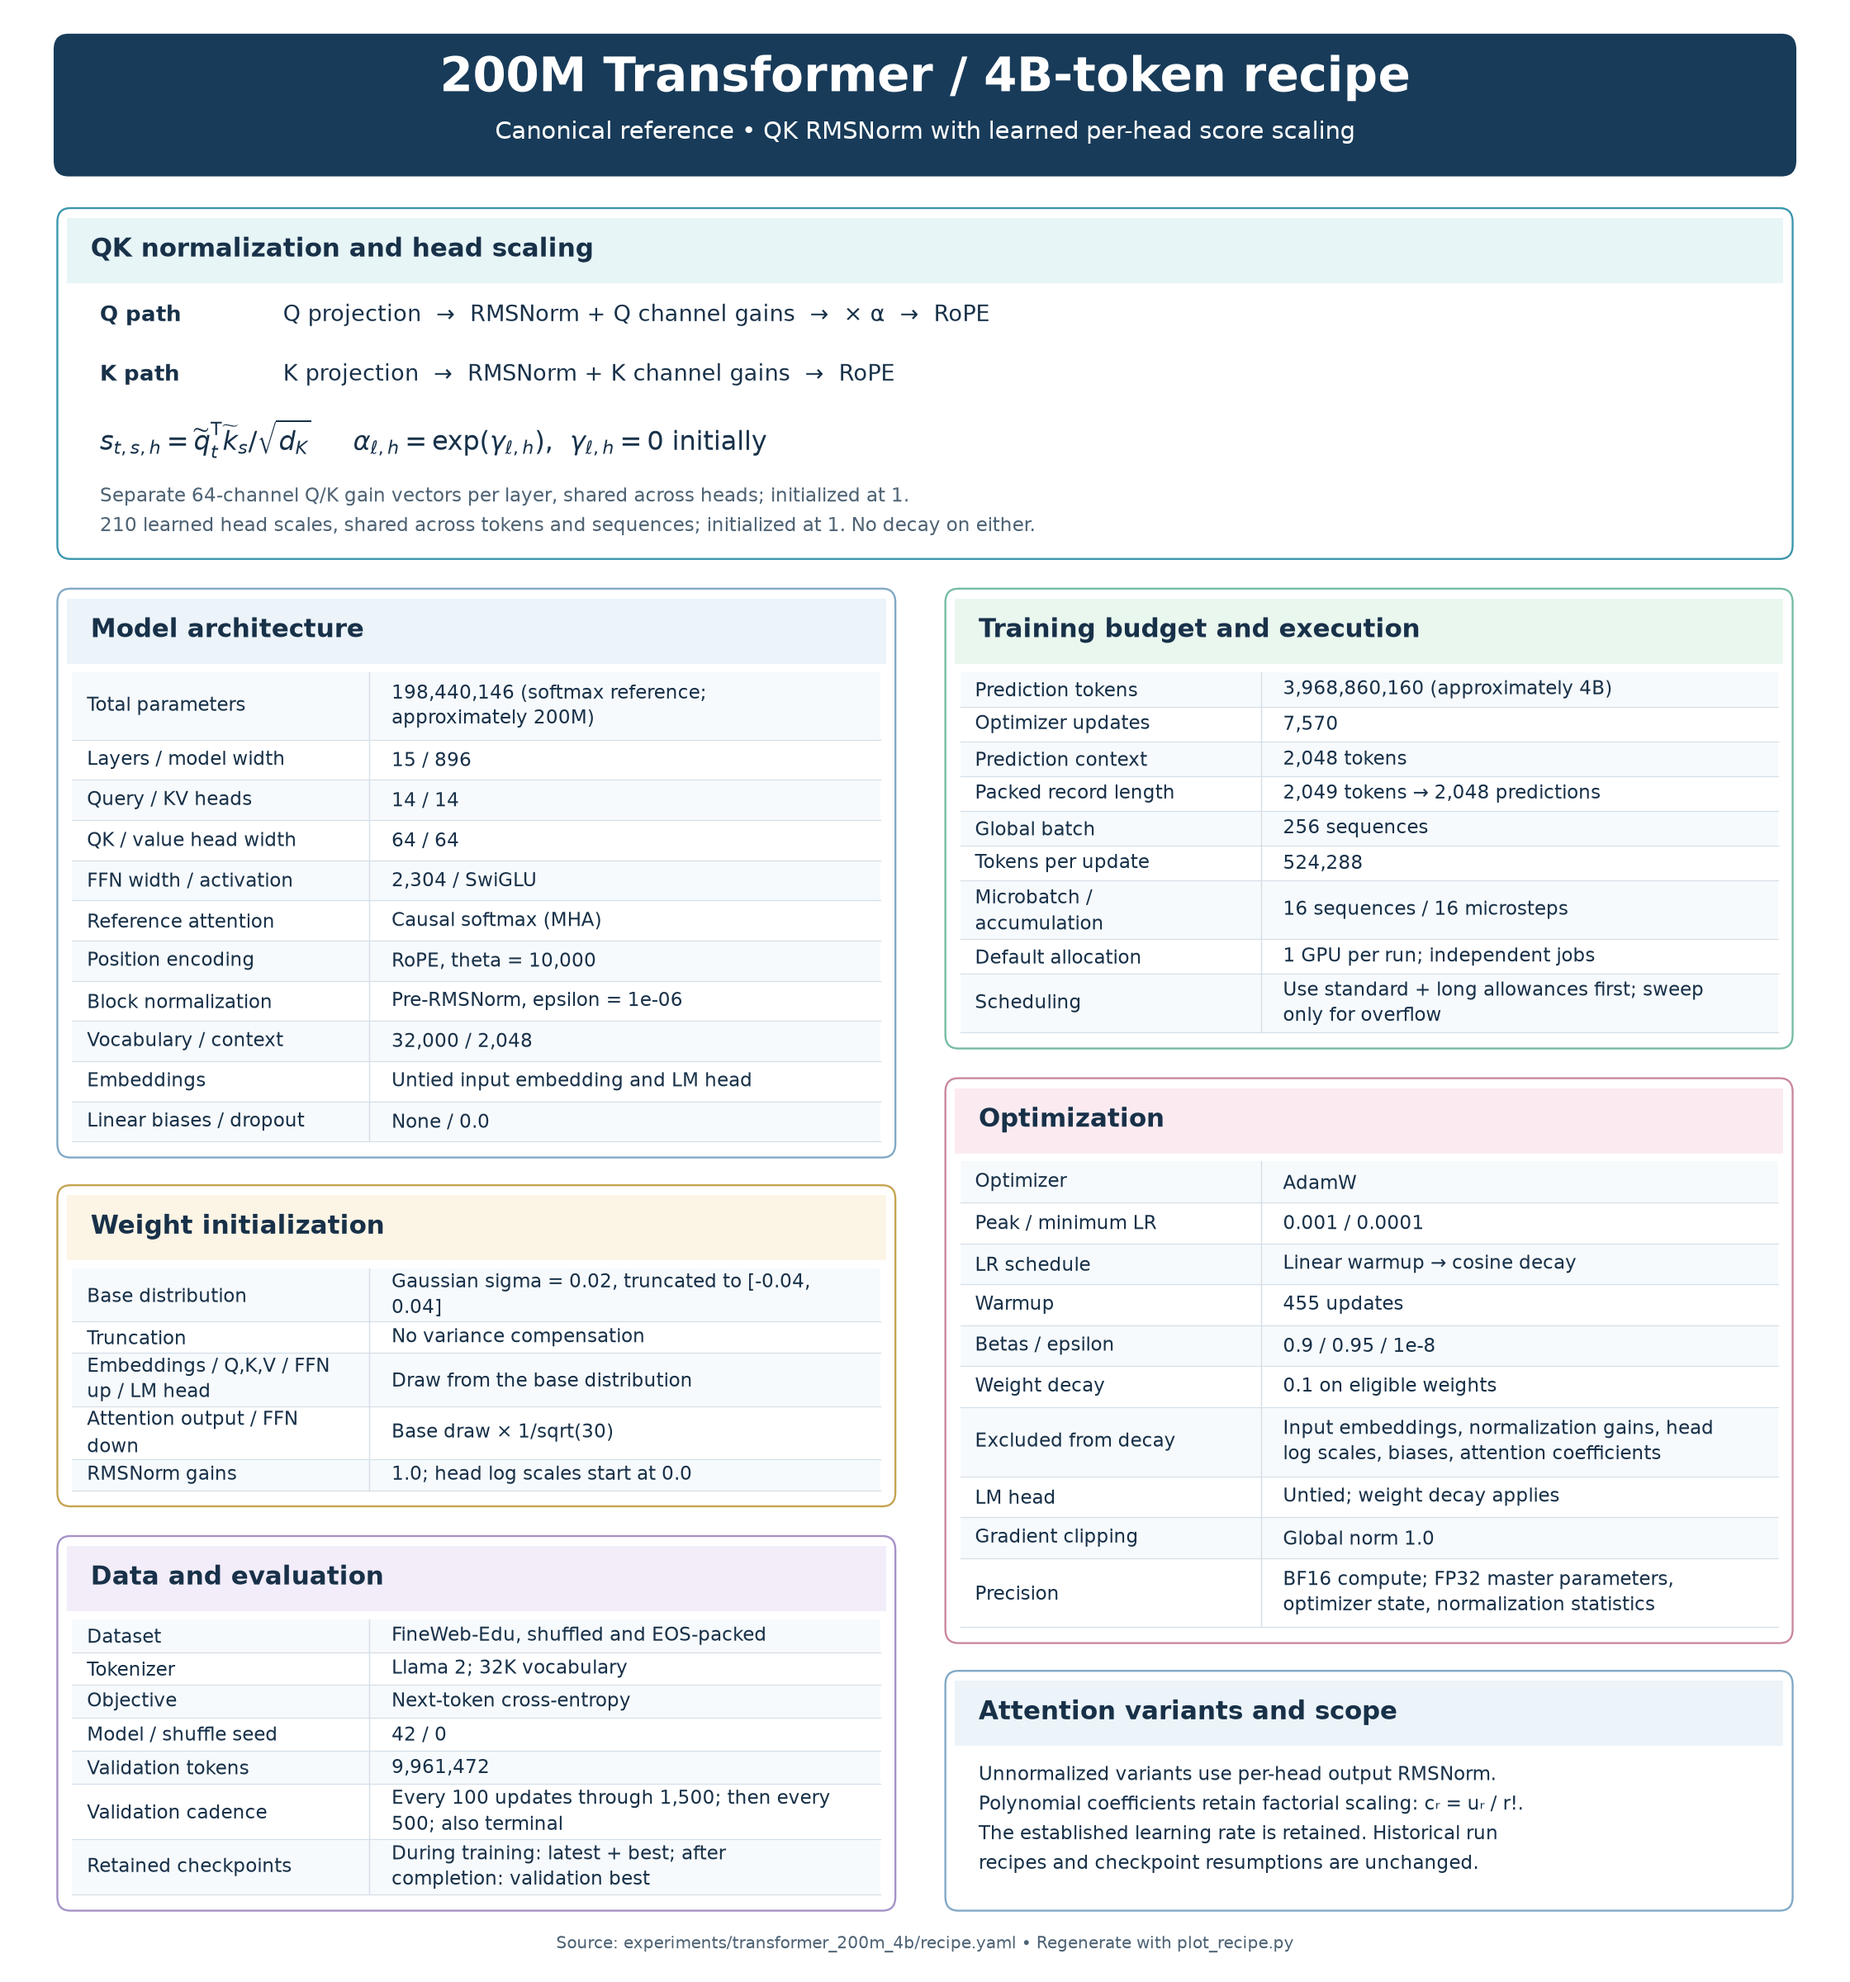
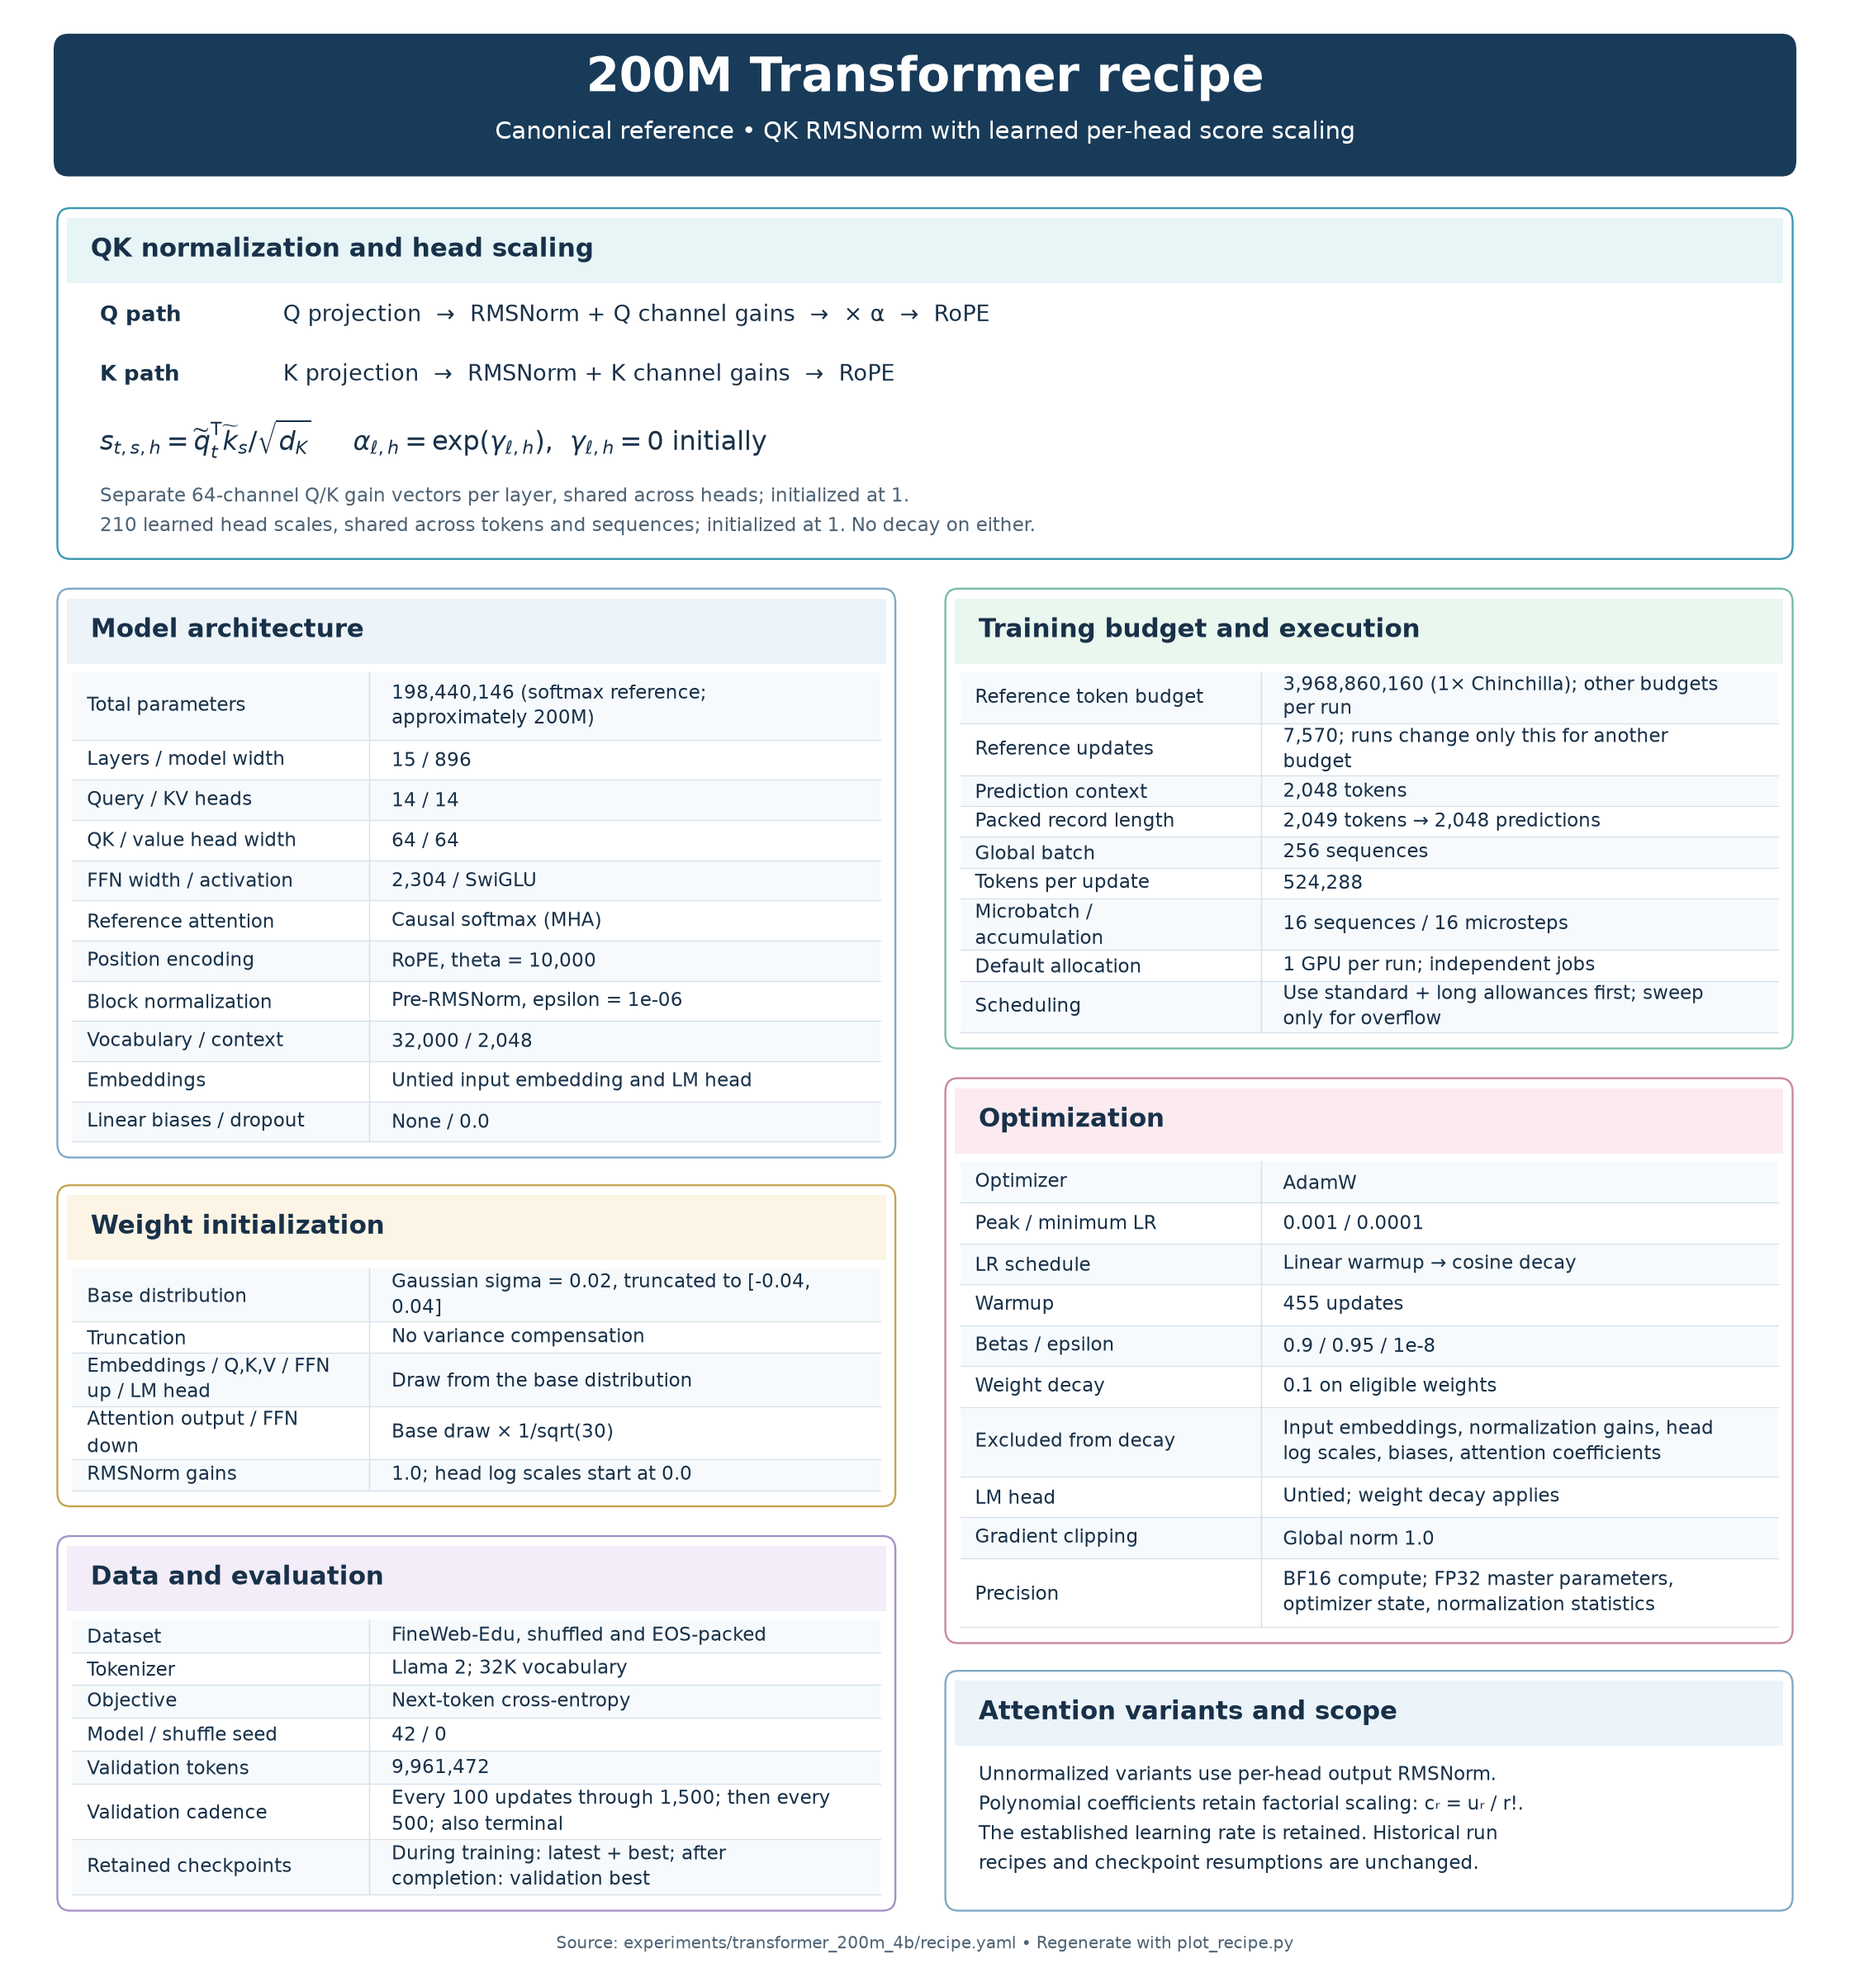
Frame the 200M study as one recipe with per-run token budgets
The study is the 200M recipe; 1x Chinchilla (7,570 updates) is the reference
budget, and runs at other budgets change only optim.total_steps. Retitle the
study README, root index, AGENTS.md entry, and recipe image accordingly, and
document the 2.5x budget (18,925 updates). The folder keeps its name.

Changed region(s): [[0.6875, 0.3438, 0.9062, 0.5312], [0.5312, 0.3438, 0.6562, 0.5312], [0.25, 0.0312, 0.7812, 0.0625]]

diff --git a/experiments/transformer_200m_4b/plot_recipe.py b/experiments/transformer_200m_4b/plot_recipe.py
@@ -95,7 +95,7 @@ def render(recipe: Path, output: Path) -> None:
 
     ax.add_patch(FancyBboxPatch((.035, .917), .93, .06, boxstyle="round,pad=0.006,rounding_size=0.008",
                                facecolor="#183b59", linewidth=0, transform=ax.transAxes))
-    text(.5, .954, "200M Transformer / 4B-token recipe", fontsize=26, weight="bold", ha="center", color="white")
+    text(.5, .954, "200M Transformer recipe", fontsize=26, weight="bold", ha="center", color="white")
     text(.5, .930, "Canonical reference • QK RMSNorm with learned per-head score scaling",
          fontsize=13.2, ha="center", color="white")
 
@@ -143,8 +143,8 @@ def render(recipe: Path, output: Path) -> None:
     ], color="#a591c7", fill="#f2edf9")
 
     table(.515, .475, .45, .224, "Training budget and execution", [
-        ("Prediction tokens", f"{total_tokens:,} (approximately 4B)"),
-        ("Optimizer updates", f"{optim['total_steps']:,}"),
+        ("Reference token budget", f"{total_tokens:,} (1× Chinchilla); other budgets per run"),
+        ("Reference updates", f"{optim['total_steps']:,}; runs change only this for another budget"),
         ("Prediction context", f"{length:,} tokens"),
         ("Packed record length", f"{packed['sequence_length']:,} tokens → {length:,} predictions"),
         ("Global batch", f"{global_batch} sequences"),

diff --git a/experiments/transformer_200m_4b/README.md b/experiments/transformer_200m_4b/README.md
@@ -1,14 +1,17 @@
-# 200M Transformer / 4B-token setup
+# 200M Transformer setup
 
-How do attention variants perform under the 200M-parameter, approximately 4B-token
-recipe? This self-contained study owns its [recipe](recipe.yaml), [run index](runs.csv),
+How do attention variants perform under the 200M-parameter recipe, and how do their
+comparisons change with the training-token budget? The budget is a per-run setting:
+the reference is 1× Chinchilla (about 4B tokens), and runs at other budgets change only
+`optim.total_steps`. The folder keeps its original `transformer_200m_4b` name.
+This self-contained study owns its [recipe](recipe.yaml), [run index](runs.csv),
 [membership](sweep.yaml), and [results](results/README.md), including exploratory
 diagnostics. Reusable model, attention, data, optimizer, and runtime code live in
 the [Transformer scaffold](../../scaffolds/transformer/README.md).
 
 ## Reference recipe
 
-![200M / 4B reference recipe with learned per-head QK score scaling](recipe.png)
+![200M reference recipe with learned per-head QK score scaling](recipe.png)
 
 The pretraining reference has 15 layers, width 896, 14 query/KV heads of width 64,
 SwiGLU width 2304, context 2048, vocabulary 32,000, untied embeddings, and RoPE
@@ -27,7 +30,7 @@ computation uses BF16.
 New pretraining runs use this setup. Historical run configurations and checkpoint
 resumptions retain their recorded normalization; changing the canonical recipe
 does not change those experiments. The architecture and optimizer below otherwise
-retain the established 4B recipe, including its previously selected learning rate.
+retain the established recipe, including its previously selected learning rate.
 
 Linear and embedding weights use a Gaussian with underlying standard deviation
 0.02, truncated to [-0.04, 0.04] without variance compensation. Attention output
@@ -37,11 +40,26 @@ excluding embeddings, normalization gains, biases, and attention coefficients.
 The untied output head decays.
 
 The reference uses shuffled, EOS-packed FineWeb-Edu data tokenized with the
-Llama-2 tokenizer, seed 42, global batch 256, and 7,570 updates
-(3,968,860,160 prediction tokens). Peak LR is 0.001, with 455 warmup updates and
-cosine decay to 0.0001. Validation uses 9,961,472 tokens every 100 updates through
+Llama-2 tokenizer, seed 42, and global batch 256. Its token budget is 1× Chinchilla:
+7,570 updates (3,968,860,160 prediction tokens). Peak LR is 0.001, with 455 warmup
+updates and cosine decay to 0.0001 over the run. Validation uses 9,961,472 tokens every 100 updates through
 1,500, then every 500 and at the final update. Individual diagnostic recipes
 specify their own fitting objective, trainable parameters, and stopping rule.
+
+### Token budgets
+
+A run at another budget copies its reference recipe and changes only
+`optim.total_steps` (and so the cosine horizon); warmup (455 updates), peak and
+floor learning rate, data order, seed, and validation cadence stay the same.
+With the same shuffle seed, a longer run first sees exactly the tokens of a
+shorter one. The 12.0B-token training set covers up to about 22,900 updates
+without repeating data. `runs.csv` records each run's `training_steps`; compare
+runs at the same budget, or the same variant across budgets.
+
+| Budget | Updates | Prediction tokens |
+| --- | ---: | ---: |
+| 1× Chinchilla (reference) | 7,570 | 3,968,860,160 |
+| 2.5× Chinchilla | 18,925 | 9,922,150,400 |
 
 Regenerate the reference image from the current recipe with:
 

diff --git a/README.md b/README.md
@@ -11,7 +11,7 @@ a result collection can combine runs from several studies.
 | Input-dependent (tanh) polynomial coefficients | [Matched-degree comparison](results/input_dependent_coefficients/README.md) | [10B attention runs](experiments/attention_scaling/README.md#input-dependent-coefficient-comparison) |
 | Polynomial Gated DeltaNet: independent erase, polynomial memory, key width | [Heatmap and validation gap](results/gdn_polynomial/README.md) | [10B attention runs](experiments/attention_scaling/README.md#polynomial-gated-deltanet) |
 | Rational polynomial attention: separate learned denominator | [Comparison by denominator](results/rational_polynomial/README.md) | [10B attention runs](experiments/attention_scaling/README.md) |
-| 200M Transformer / 4B-token setup | [Results and exploratory diagnostics](experiments/transformer_200m_4b/results/README.md) | [Recipe and runs](experiments/transformer_200m_4b/README.md) |
+| 200M Transformer setup, token budget per run (1× and 2.5× Chinchilla) | [Results and exploratory diagnostics](experiments/transformer_200m_4b/results/README.md) | [Recipe and runs](experiments/transformer_200m_4b/README.md) |
 | State rank | [Figures and findings](results/state_rank/README.md) | [Runs and execution](experiments/state_rank/README.md) |
 
 Exploratory results awaiting a decision (promote or discard) are in
@@ -20,10 +20,10 @@ training behavior, such as gradient spikes, are in
 [`results/diagnostics/`](results/diagnostics/README.md).
 
 The established 10B attention settings vary within `experiments/attention_scaling/runs/<run_id>/`.
-The separately requested 200M / 4B setup owns its recipe, runs, results, and exploratory
+The separately requested 200M setup owns its recipe, runs, results, and exploratory
 diagnostics under `experiments/transformer_200m_4b/`. Mechanisms and sweeps remain
 runs within their applicable study. The [10B run index](experiments/attention_scaling/runs.csv)
-and [4B run index](experiments/transformer_200m_4b/runs.csv) expose the settings,
+and [200M run index](experiments/transformer_200m_4b/runs.csv) expose the settings,
 home cluster, training budget, status, and outcome. Each result collection selects
 its inputs explicitly, so the same run can participate in several comparisons.
 

diff --git a/AGENTS.md b/AGENTS.md
@@ -43,8 +43,9 @@ scaffolds/<capability>/      shared implementation, tests, and environment
 ```
 
 - The established 10B-token shared-Transformer attention experiments belong to
-  `experiments/attention_scaling/`. The user-requested 200M / 4B-token setup is isolated
-  in `experiments/transformer_200m_4b/`, including its `recipe.yaml`, run membership,
+  `experiments/attention_scaling/`. The user-requested 200M setup is isolated in
+  `experiments/transformer_200m_4b/` (the folder keeps its original name; the token budget
+  is a per-run setting with 1× Chinchilla as the reference), including its `recipe.yaml`, run membership,
   `runs/<run_id>/`, execution helpers, and `results/` collections. Its exploratory
   diagnostics belong under `experiments/transformer_200m_4b/results/exploratory/<topic>/`,
   with their runs in the same study. Add runs deliberately; do not reproduce the old
